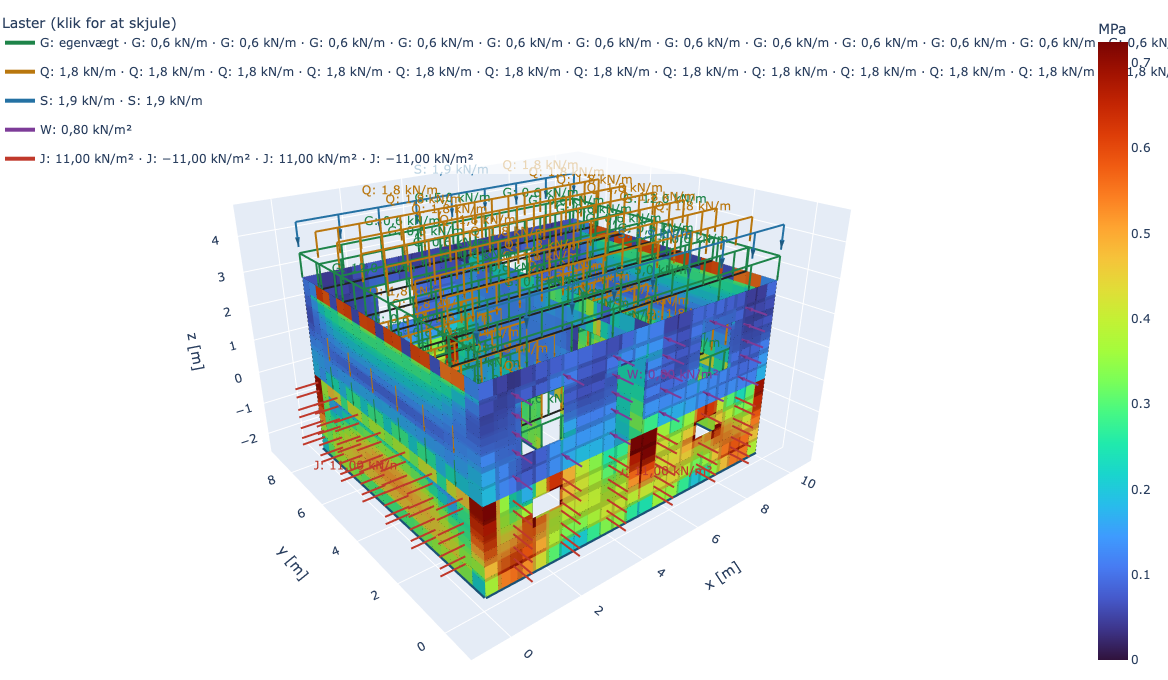
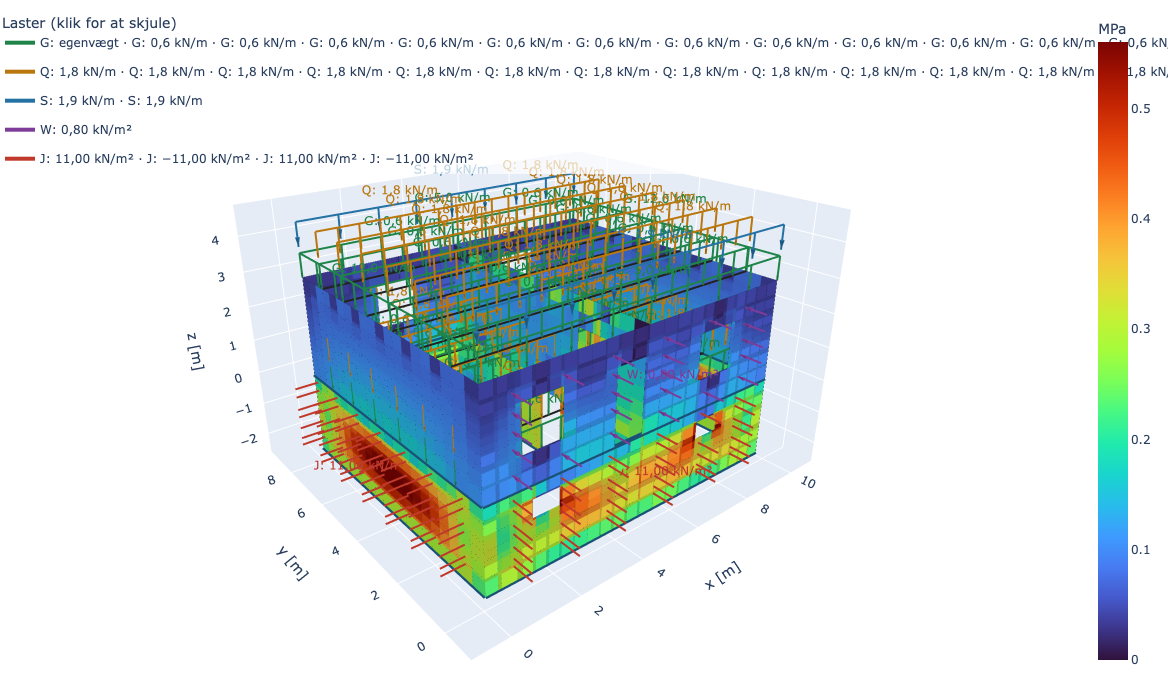
FEM example: pinned joists on wall crowns and floor diaphragm at basement wall tops
The joists were rigidly connected to the walls, so each beam's fixed-end
moment went into a single wall node as a point moment. The basement walls
also had a free top edge under earth pressure. Both gave unexplained stress
jumps at the wall corners. fem.md now describes both modelling rules.

diff --git a/plugins/byg-statik/skills/statik-viden/references/fem.md b/plugins/byg-statik/skills/statik-viden/references/fem.md
@@ -42,6 +42,8 @@ Brug flader, når **lastens vej gennem vægge og dæk** er spørgsmålet: hvor s
 - **Materialer** skal være isotrope: betonklasserne, S235/S355, `gasbeton` (E 2 500 MPa, ρ 6 kN/m³) og `tegl` (E 6 000 MPa, ρ 18 kN/m³) – typiske overslagsværdier med E = 1000·f_k (EN 1996-1-1, 3.7.2). Kendes f_k, så angiv et eget materiale med `E`, `nu` og `rho`. Træ (bjælkelag, spær) modelleres som elementer.
 - **Forbindelser:** flader, der mødes, deler knuder langs fællesranden; spec-knuder og bjælker, der ligger på en flade, forbindes med den i alle knuder på linjen. En bjælke under et dæk virker derfor sammen med dækket.
 - **Understøtning langs en linje:** `understoetninger_linje: [{fra, til, type}]` (fx væggenes fod).
+- **Bjælker på en væg** (bjælkelag på murkrone) skal have `led: [start, slut]`. Ellers er samlingen stiv, og bjælkens indspændingsmoment går ind i én vægknude som et punktmoment – det giver en falsk spændingstop i væggen.
+- **Dæk som skive:** et dæk, der ikke er modelleret som flade, holder alligevel væggene vandret. Giv vægtoppen en linjeunderstøtning i én retning, fx `{fra: AS, til: BS, type: [y]}`. Ellers spænder en kældervæg med jordtryk vandret mellem hjørnerne med fri top, og momenterne samler sig i lodrette striber ved hjørner og tværvægge.
 - **Laster:** `{flade: navn, tryk: kN/m², retning: ned|x|y|z|normal}` (pr. m² flade), `{linje: [knude, knude], linjelast: kN/m}` (fx tag på murkrone) og `egenvaegt: true` (t·ρ).
 - **Resultater** pr. flade og kombination: σ_vM (MPa, største af over- og underside: membran ± bøjning), membrankræfter n_u, n_v, n_uv (kN/m, **tryk < 0**), pladmomenter m_u, m_v (kNm/m), flytning (mm) og de tre steder med størst spænding. `udtraek: {navn: {flade, x: [a, b], y: [c, d]}}` giver maks./min. for et område – fx en vægende under en bjælke. n_v ved foden af en vægende (kN/m) er lasten pr. m væg, der skal eftervises for murværket.
 - **Fortolkning:** lineært-elastisk uden revner. Spændinger i hjørner af åbninger og under punktlaster vokser, når meshet gøres finere (singulariteter): brug dem som **markering af, hvor lasten samler sig**, og eftervis vægenden med kraften over en bredde (n_v integreret, eller reaktionen fra bjælken), ikke med toppunktet. Farveskalaen klippes ved 99,5 %-fraktilen; maks. står i noten.

diff --git a/versionsnoter/3d-demo-samme-hus.md b/versionsnoter/3d-demo-samme-hus.md
@@ -2,4 +2,4 @@
 byg-bim: minor
 byg-statik: patch
 ---
-Eksempelhuset er nu det samme i BIM og FEM. BIM: nyt afsnit `ovenlys` til tagvinduer i tagfladen, `farve` på systemer, `bim.py eksport --gennemsigtig/--alfa` til gennemsigtige facader og en komplet VVS-installation i eksemplet (centralvarme, radiatorer, varmtvandsbeholder, koldt og varmt brugsvand, spildevand til brønd). Statik: nyt FEM-eksempel `fem-eksempel-hus.yaml` med husets vægge og dæk. Nyt felt `spaer` på tage: spær, veksler om ovenlys og skorsten samt hanebånd som IfcMember i taget, og eksemplet viser spærkonstruktionen gennem den gennemsigtige tagflade.
+Eksempelhuset er nu det samme i BIM og FEM. BIM: nyt afsnit `ovenlys` til tagvinduer i tagfladen, `farve` på systemer, `bim.py eksport --gennemsigtig/--alfa` til gennemsigtige facader og en komplet VVS-installation i eksemplet (centralvarme, radiatorer, varmtvandsbeholder, koldt og varmt brugsvand, spildevand til brønd). Statik: nyt FEM-eksempel `fem-eksempel-hus.yaml` med husets vægge og dæk. Nyt felt `spaer` på tage: spær, veksler om ovenlys og skorsten samt hanebånd som IfcMember i taget, og eksemplet viser spærkonstruktionen gennem den gennemsigtige tagflade. FEM-eksemplet: bjælkelaget er nu leddet på murkronen, og dækket over kælderen holder kældervæggenes top. Det fjerner de urealistiske spændingsspring ved væghjørnerne. fem.md beskriver begge modelleringsregler.
